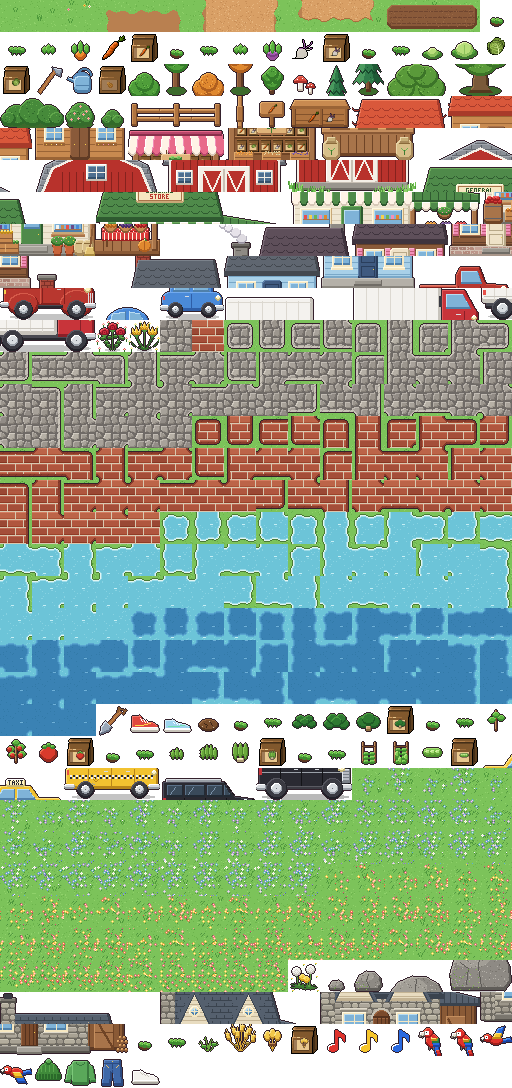
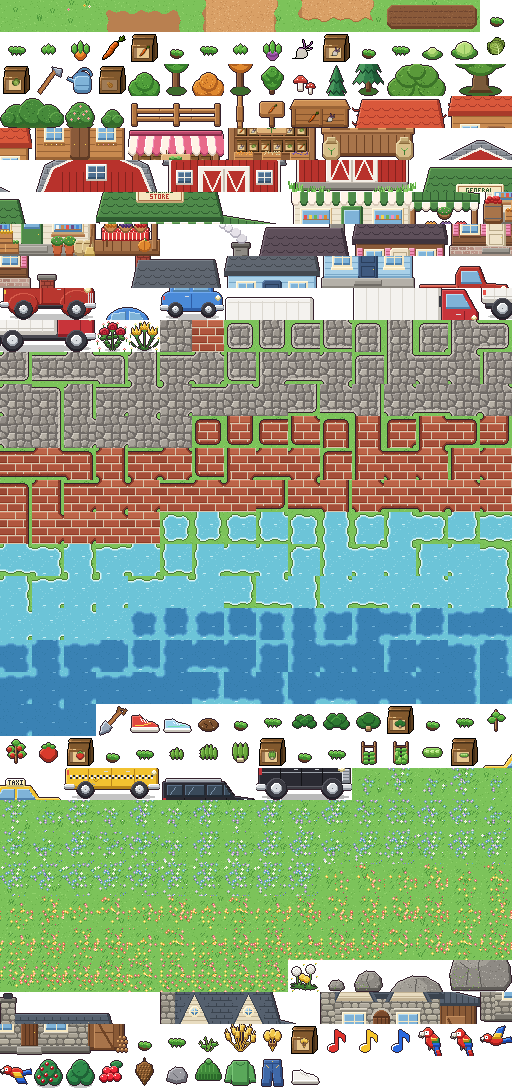
Foraging: berry bushes, pinecones and stones
Berry bushes grow along the Wilds' paths and clearings; Use on one picks 1-3
berries and leaves it bare until morning. Eating berries (Use while holding
them) gives +5 energy. Pinecones turn up by pine trees and stones in the open;
walk over them to pick them up. The Wilds get plenty each visit, the farm a
few each morning (at most 4 lying about). All three sell for 2g in the bin or
at Fredrick's. Art drawn by make_art.py.

Claude-Session: https://claude.ai/code/session_015p9zHqe761HPZ9r97hGy59

Changed region(s): [[0.0625, 0.9688, 0.625, 1.0]]

diff --git a/src/art-index.js b/src/art-index.js
@@ -1,2 +1,2 @@
 // Generated by tools/make_art.py: tile names -> index in assets/art/world.png (16 columns of 32x32).
-export const A = {"grass0": 0, "grass1": 1, "grass2": 2, "path0": 3, "path1": 4, "path2": 5, "path3": 6, "path4": 7, "path5": 8, "path6": 9, "path7": 10, "path8": 11, "soil0": 12, "soil1": 13, "soil2": 14, "carrot0": 15, "carrot1": 16, "carrot2": 17, "carrot3": 18, "carrot_item": 19, "carrot_packet": 20, "turnip0": 21, "turnip1": 22, "turnip2": 23, "turnip3": 24, "turnip_item": 25, "turnip_packet": 26, "cabbage0": 27, "cabbage1": 28, "cabbage2": 29, "cabbage3": 30, "cabbage_item": 31, "cabbage_packet": 32, "hoe": 33, "can": 34, "bag": 35, "tree_green_0": 36, "tree_green_1": 37, "tree_orange_0": 38, "tree_orange_1": 39, "tree": 40, "mushrooms": 41, "pine_0": 42, "pine_1": 43, "oak_0": 44, "oak_1": 45, "oak_2": 46, "oak_3": 47, "shrub_large_0": 48, "shrub_large_1": 49, "shrub_flower": 50, "shrub_small": 51, "fence0": 52, "fence1": 53, "fence2": 54, "fence3": 55, "sign": 56, "bin_0": 57, "bin_1": 58, "house_0": 59, "house_1": 60, "house_2": 61, "house_3": 62, "house_4": 63, "house_5": 64, "house_6": 65, "house_7": 66, "house_8": 67, "shop_0": 68, "shop_1": 69, "shop_2": 70, "shop_3": 71, "shop_4": 72, "shop_5": 73, "shop_6": 74, "shop_7": 75, "shop_8": 76, "barn_0": 77, "barn_1": 78, "barn_2": 79, "barn_3": 80, "barn_4": 81, "barn_5": 82, "barn_6": 83, "barn_7": 84, "barn_8": 85, "barn_9": 86, "barn_10": 87, "barn_11": 88, "barn_12": 89, "barn_13": 90, "barn_14": 91, "barn_15": 92, "store_0": 93, "store_1": 94, "store_2": 95, "store_3": 96, "store_4": 97, "store_5": 98, "store_6": 99, "store_7": 100, "store_8": 101, "store_9": 102, "store_10": 103, "store_11": 104, "store_12": 105, "store_13": 106, "store_14": 107, "store_15": 108, "store_16": 109, "store_17": 110, "store_18": 111, "store_19": 112, "store_20": 113, "store_21": 114, "store_22": 115, "store_23": 116, "house_brown_0": 117, "house_brown_1": 118, "house_brown_2": 119, "house_brown_3": 120, "house_brown_4": 121, "house_brown_5": 122, "house_brown_6": 123, "house_brown_7": 124, "house_brown_8": 125, "house_brown_9": 126, "house_brown_10": 127, "house_brown_11": 128, "house_blue_0": 129, "house_blue_1": 130, "house_blue_2": 131, "house_blue_3": 132, "house_blue_4": 133, "house_blue_5": 134, "house_blue_6": 135, "house_blue_7": 136, "house_blue_8": 137, "house_blue_9": 138, "house_blue_10": 139, "house_blue_11": 140, "pickup_0": 141, "pickup_1": 142, "pickup_2": 143, "pickup_3": 144, "pickup_4": 145, "pickup_5": 146, "car_small_0": 147, "car_small_1": 148, "car_small_2": 149, "car_small_3": 150, "box_truck_0": 151, "box_truck_1": 152, "box_truck_2": 153, "box_truck_3": 154, "box_truck_4": 155, "box_truck_5": 156, "box_truck_6": 157, "box_truck_7": 158, "box_truck_8": 159, "box_truck_9": 160, "box_truck_10": 161, "box_truck_11": 162, "roses": 163, "tulips": 164, "cobble0": 165, "brick0": 166, "cobbleb0": 167, "cobbleb1": 168, "cobbleb2": 169, "cobbleb3": 170, "cobbleb4": 171, "cobbleb5": 172, "cobbleb6": 173, "cobbleb7": 174, "cobbleb8": 175, "cobbleb9": 176, "cobbleb10": 177, "cobbleb11": 178, "cobbleb12": 179, "cobbleb13": 180, "cobbleb14": 181, "cobbleb15": 182, "cobbleb16": 183, "cobbleb17": 184, "cobbleb18": 185, "cobbleb19": 186, "cobbleb20": 187, "cobbleb21": 188, "cobbleb22": 189, "cobbleb23": 190, "cobbleb24": 191, "cobbleb25": 192, "cobbleb26": 193, "cobbleb27": 194, "cobbleb28": 195, "cobbleb29": 196, "cobbleb30": 197, "cobbleb31": 198, "cobbleb32": 199, "cobbleb33": 200, "cobbleb34": 201, "cobbleb35": 202, "cobbleb36": 203, "cobbleb37": 204, "cobbleb38": 205, "cobbleb39": 206, "cobbleb40": 207, "cobbleb41": 208, "cobbleb42": 209, "cobbleb43": 210, "cobbleb44": 211, "cobbleb45": 212, "cobbleb46": 213, "brickb0": 214, "brickb1": 215, "brickb2": 216, "brickb3": 217, "brickb4": 218, "brickb5": 219, "brickb6": 220, "brickb7": 221, "brickb8": 222, "brickb9": 223, "brickb10": 224, "brickb11": 225, "brickb12": 226, "brickb13": 227, "brickb14": 228, "brickb15": 229, "brickb16": 230, "brickb17": 231, "brickb18": 232, "brickb19": 233, "brickb20": 234, "brickb21": 235, "brickb22": 236, "brickb23": 237, "brickb24": 238, "brickb25": 239, "brickb26": 240, "brickb27": 241, "brickb28": 242, "brickb29": 243, "brickb30": 244, "brickb31": 245, "brickb32": 246, "brickb33": 247, "brickb34": 248, "brickb35": 249, "brickb36": 250, "brickb37": 251, "brickb38": 252, "brickb39": 253, "brickb40": 254, "brickb41": 255, "brickb42": 256, "brickb43": 257, "brickb44": 258, "brickb45": 259, "brickb46": 260, "shallow0": 261, "shallow1": 262, "shallow2": 263, "shallow3": 264, "shallow4": 265, "shallow5": 266, "shallow6": 267, "shallow7": 268, "shallow8": 269, "shallow9": 270, "shallow10": 271, "shallow11": 272, "shallow12": 273, "shallow13": 274, "shallow14": 275, "shallow15": 276, "shallow16": 277, "shallow17": 278, "shallow18": 279, "shallow19": 280, "shallow20": 281, "shallow21": 282, "shallow22": 283, "shallow23": 284, "shallow24": 285, "shallow25": 286, "shallow26": 287, "shallow27": 288, "shallow28": 289, "shallow29": 290, "shallow30": 291, "shallow31": 292, "shallow32": 293, "shallow33": 294, "shallow34": 295, "shallow35": 296, "shallow36": 297, "shallow37": 298, "shallow38": 299, "shallow39": 300, "shallow40": 301, "shallow41": 302, "shallow42": 303, "shallow43": 304, "shallow44": 305, "shallow45": 306, "shallow46": 307, "deep0": 308, "deep1": 309, "deep2": 310, "deep3": 311, "deep4": 312, "deep5": 313, "deep6": 314, "deep7": 315, "deep8": 316, "deep9": 317, "deep10": 318, "deep11": 319, "deep12": 320, "deep13": 321, "deep14": 322, "deep15": 323, "deep16": 324, "deep17": 325, "deep18": 326, "deep19": 327, "deep20": 328, "deep21": 329, "deep22": 330, "deep23": 331, "deep24": 332, "deep25": 333, "deep26": 334, "deep27": 335, "deep28": 336, "deep29": 337, "deep30": 338, "deep31": 339, "deep32": 340, "deep33": 341, "deep34": 342, "deep35": 343, "deep36": 344, "deep37": 345, "deep38": 346, "deep39": 347, "deep40": 348, "deep41": 349, "deep42": 350, "deep43": 351, "deep44": 352, "deep45": 353, "deep46": 354, "shovel": 355, "shoes": 356, "sneakers": 357, "dig_spot": 358, "spinach0": 359, "spinach1": 360, "spinach2": 361, "spinach3": 362, "spinach_item": 363, "spinach_packet": 364, "tomato0": 365, "tomato1": 366, "tomato2": 367, "tomato3": 368, "tomato_item": 369, "tomato_packet": 370, "arugula0": 371, "arugula1": 372, "arugula2": 373, "arugula3": 374, "arugula_item": 375, "arugula_packet": 376, "peas0": 377, "peas1": 378, "peas2": 379, "peas3": 380, "peas_item": 381, "peas_packet": 382, "taxi_0": 383, "taxi_1": 384, "taxi_2": 385, "taxi_3": 386, "taxi_4": 387, "taxi_5": 388, "suv_0": 389, "suv_1": 390, "suv_2": 391, "suv_3": 392, "suv_4": 393, "suv_5": 394, "wildcool0": 395, "wildcool1": 396, "wildcool2": 397, "wildcool3": 398, "wildcool4": 399, "wildcool5": 400, "wildcool6": 401, "wildcool7": 402, "wildcool8": 403, "wildcool9": 404, "wildcool10": 405, "wildcool11": 406, "wildcool12": 407, "wildcool13": 408, "wildcool14": 409, "wildcool15": 410, "wildcool16": 411, "wildcool17": 412, "wildcool18": 413, "wildcool19": 414, "wildcool20": 415, "wildcool21": 416, "wildcool22": 417, "wildcool23": 418, "wildcool24": 419, "wildcool25": 420, "wildcool26": 421, "wildcool27": 422, "wildcool28": 423, "wildcool29": 424, "wildcool30": 425, "wildcool31": 426, "wildcool32": 427, "wildcool33": 428, "wildcool34": 429, "wildcool35": 430, "wildcool36": 431, "wildcool37": 432, "wildcool38": 433, "wildcool39": 434, "wildcool40": 435, "wildcool41": 436, "wildcool42": 437, "wildcool43": 438, "wildcool44": 439, "wildcool45": 440, "wildcool46": 441, "wildwarm0": 442, "wildwarm1": 443, "wildwarm2": 444, "wildwarm3": 445, "wildwarm4": 446, "wildwarm5": 447, "wildwarm6": 448, "wildwarm7": 449, "wildwarm8": 450, "wildwarm9": 451, "wildwarm10": 452, "wildwarm11": 453, "wildwarm12": 454, "wildwarm13": 455, "wildwarm14": 456, "wildwarm15": 457, "wildwarm16": 458, "wildwarm17": 459, "wildwarm18": 460, "wildwarm19": 461, "wildwarm20": 462, "wildwarm21": 463, "wildwarm22": 464, "wildwarm23": 465, "wildwarm24": 466, "wildwarm25": 467, "wildwarm26": 468, "wildwarm27": 469, "wildwarm28": 470, "wildwarm29": 471, "wildwarm30": 472, "wildwarm31": 473, "wildwarm32": 474, "wildwarm33": 475, "wildwarm34": 476, "wildwarm35": 477, "wildwarm36": 478, "wildwarm37": 479, "wildwarm38": 480, "wildwarm39": 481, "wildwarm40": 482, "wildwarm41": 483, "wildwarm42": 484, "wildwarm43": 485, "wildwarm44": 486, "wildwarm45": 487, "wildwarm46": 488, "dandelions": 489, "rock_small": 490, "rock_medium": 491, "rock_large_0": 492, "rock_large_1": 493, "rock_large_2": 494, "rock_large_3": 495, "stone_house_0": 496, "stone_house_1": 497, "stone_house_2": 498, "stone_house_3": 499, "stone_house_4": 500, "stone_house_5": 501, "stone_house_6": 502, "stone_house_7": 503, "stone_house_8": 504, "stone_house_9": 505, "stone_house_10": 506, "stone_house_11": 507, "stone_house_12": 508, "stone_house_13": 509, "stone_house_14": 510, "stone_house_15": 511, "stone_house_16": 512, "stone_house_17": 513, "stone_house_18": 514, "stone_house_19": 515, "wheat0": 516, "wheat1": 517, "wheat2": 518, "wheat3": 519, "wheat_item": 520, "wheat_packet": 521, "note_red": 522, "note_yellow": 523, "note_blue": 524, "bird0": 525, "bird1": 526, "bird_fly0": 527, "bird_fly1": 528, "beanie": 529, "longsleeve": 530, "jeans": 531, "white_sneakers": 532};
+export const A = {"grass0": 0, "grass1": 1, "grass2": 2, "path0": 3, "path1": 4, "path2": 5, "path3": 6, "path4": 7, "path5": 8, "path6": 9, "path7": 10, "path8": 11, "soil0": 12, "soil1": 13, "soil2": 14, "carrot0": 15, "carrot1": 16, "carrot2": 17, "carrot3": 18, "carrot_item": 19, "carrot_packet": 20, "turnip0": 21, "turnip1": 22, "turnip2": 23, "turnip3": 24, "turnip_item": 25, "turnip_packet": 26, "cabbage0": 27, "cabbage1": 28, "cabbage2": 29, "cabbage3": 30, "cabbage_item": 31, "cabbage_packet": 32, "hoe": 33, "can": 34, "bag": 35, "tree_green_0": 36, "tree_green_1": 37, "tree_orange_0": 38, "tree_orange_1": 39, "tree": 40, "mushrooms": 41, "pine_0": 42, "pine_1": 43, "oak_0": 44, "oak_1": 45, "oak_2": 46, "oak_3": 47, "shrub_large_0": 48, "shrub_large_1": 49, "shrub_flower": 50, "shrub_small": 51, "fence0": 52, "fence1": 53, "fence2": 54, "fence3": 55, "sign": 56, "bin_0": 57, "bin_1": 58, "house_0": 59, "house_1": 60, "house_2": 61, "house_3": 62, "house_4": 63, "house_5": 64, "house_6": 65, "house_7": 66, "house_8": 67, "shop_0": 68, "shop_1": 69, "shop_2": 70, "shop_3": 71, "shop_4": 72, "shop_5": 73, "shop_6": 74, "shop_7": 75, "shop_8": 76, "barn_0": 77, "barn_1": 78, "barn_2": 79, "barn_3": 80, "barn_4": 81, "barn_5": 82, "barn_6": 83, "barn_7": 84, "barn_8": 85, "barn_9": 86, "barn_10": 87, "barn_11": 88, "barn_12": 89, "barn_13": 90, "barn_14": 91, "barn_15": 92, "store_0": 93, "store_1": 94, "store_2": 95, "store_3": 96, "store_4": 97, "store_5": 98, "store_6": 99, "store_7": 100, "store_8": 101, "store_9": 102, "store_10": 103, "store_11": 104, "store_12": 105, "store_13": 106, "store_14": 107, "store_15": 108, "store_16": 109, "store_17": 110, "store_18": 111, "store_19": 112, "store_20": 113, "store_21": 114, "store_22": 115, "store_23": 116, "house_brown_0": 117, "house_brown_1": 118, "house_brown_2": 119, "house_brown_3": 120, "house_brown_4": 121, "house_brown_5": 122, "house_brown_6": 123, "house_brown_7": 124, "house_brown_8": 125, "house_brown_9": 126, "house_brown_10": 127, "house_brown_11": 128, "house_blue_0": 129, "house_blue_1": 130, "house_blue_2": 131, "house_blue_3": 132, "house_blue_4": 133, "house_blue_5": 134, "house_blue_6": 135, "house_blue_7": 136, "house_blue_8": 137, "house_blue_9": 138, "house_blue_10": 139, "house_blue_11": 140, "pickup_0": 141, "pickup_1": 142, "pickup_2": 143, "pickup_3": 144, "pickup_4": 145, "pickup_5": 146, "car_small_0": 147, "car_small_1": 148, "car_small_2": 149, "car_small_3": 150, "box_truck_0": 151, "box_truck_1": 152, "box_truck_2": 153, "box_truck_3": 154, "box_truck_4": 155, "box_truck_5": 156, "box_truck_6": 157, "box_truck_7": 158, "box_truck_8": 159, "box_truck_9": 160, "box_truck_10": 161, "box_truck_11": 162, "roses": 163, "tulips": 164, "cobble0": 165, "brick0": 166, "cobbleb0": 167, "cobbleb1": 168, "cobbleb2": 169, "cobbleb3": 170, "cobbleb4": 171, "cobbleb5": 172, "cobbleb6": 173, "cobbleb7": 174, "cobbleb8": 175, "cobbleb9": 176, "cobbleb10": 177, "cobbleb11": 178, "cobbleb12": 179, "cobbleb13": 180, "cobbleb14": 181, "cobbleb15": 182, "cobbleb16": 183, "cobbleb17": 184, "cobbleb18": 185, "cobbleb19": 186, "cobbleb20": 187, "cobbleb21": 188, "cobbleb22": 189, "cobbleb23": 190, "cobbleb24": 191, "cobbleb25": 192, "cobbleb26": 193, "cobbleb27": 194, "cobbleb28": 195, "cobbleb29": 196, "cobbleb30": 197, "cobbleb31": 198, "cobbleb32": 199, "cobbleb33": 200, "cobbleb34": 201, "cobbleb35": 202, "cobbleb36": 203, "cobbleb37": 204, "cobbleb38": 205, "cobbleb39": 206, "cobbleb40": 207, "cobbleb41": 208, "cobbleb42": 209, "cobbleb43": 210, "cobbleb44": 211, "cobbleb45": 212, "cobbleb46": 213, "brickb0": 214, "brickb1": 215, "brickb2": 216, "brickb3": 217, "brickb4": 218, "brickb5": 219, "brickb6": 220, "brickb7": 221, "brickb8": 222, "brickb9": 223, "brickb10": 224, "brickb11": 225, "brickb12": 226, "brickb13": 227, "brickb14": 228, "brickb15": 229, "brickb16": 230, "brickb17": 231, "brickb18": 232, "brickb19": 233, "brickb20": 234, "brickb21": 235, "brickb22": 236, "brickb23": 237, "brickb24": 238, "brickb25": 239, "brickb26": 240, "brickb27": 241, "brickb28": 242, "brickb29": 243, "brickb30": 244, "brickb31": 245, "brickb32": 246, "brickb33": 247, "brickb34": 248, "brickb35": 249, "brickb36": 250, "brickb37": 251, "brickb38": 252, "brickb39": 253, "brickb40": 254, "brickb41": 255, "brickb42": 256, "brickb43": 257, "brickb44": 258, "brickb45": 259, "brickb46": 260, "shallow0": 261, "shallow1": 262, "shallow2": 263, "shallow3": 264, "shallow4": 265, "shallow5": 266, "shallow6": 267, "shallow7": 268, "shallow8": 269, "shallow9": 270, "shallow10": 271, "shallow11": 272, "shallow12": 273, "shallow13": 274, "shallow14": 275, "shallow15": 276, "shallow16": 277, "shallow17": 278, "shallow18": 279, "shallow19": 280, "shallow20": 281, "shallow21": 282, "shallow22": 283, "shallow23": 284, "shallow24": 285, "shallow25": 286, "shallow26": 287, "shallow27": 288, "shallow28": 289, "shallow29": 290, "shallow30": 291, "shallow31": 292, "shallow32": 293, "shallow33": 294, "shallow34": 295, "shallow35": 296, "shallow36": 297, "shallow37": 298, "shallow38": 299, "shallow39": 300, "shallow40": 301, "shallow41": 302, "shallow42": 303, "shallow43": 304, "shallow44": 305, "shallow45": 306, "shallow46": 307, "deep0": 308, "deep1": 309, "deep2": 310, "deep3": 311, "deep4": 312, "deep5": 313, "deep6": 314, "deep7": 315, "deep8": 316, "deep9": 317, "deep10": 318, "deep11": 319, "deep12": 320, "deep13": 321, "deep14": 322, "deep15": 323, "deep16": 324, "deep17": 325, "deep18": 326, "deep19": 327, "deep20": 328, "deep21": 329, "deep22": 330, "deep23": 331, "deep24": 332, "deep25": 333, "deep26": 334, "deep27": 335, "deep28": 336, "deep29": 337, "deep30": 338, "deep31": 339, "deep32": 340, "deep33": 341, "deep34": 342, "deep35": 343, "deep36": 344, "deep37": 345, "deep38": 346, "deep39": 347, "deep40": 348, "deep41": 349, "deep42": 350, "deep43": 351, "deep44": 352, "deep45": 353, "deep46": 354, "shovel": 355, "shoes": 356, "sneakers": 357, "dig_spot": 358, "spinach0": 359, "spinach1": 360, "spinach2": 361, "spinach3": 362, "spinach_item": 363, "spinach_packet": 364, "tomato0": 365, "tomato1": 366, "tomato2": 367, "tomato3": 368, "tomato_item": 369, "tomato_packet": 370, "arugula0": 371, "arugula1": 372, "arugula2": 373, "arugula3": 374, "arugula_item": 375, "arugula_packet": 376, "peas0": 377, "peas1": 378, "peas2": 379, "peas3": 380, "peas_item": 381, "peas_packet": 382, "taxi_0": 383, "taxi_1": 384, "taxi_2": 385, "taxi_3": 386, "taxi_4": 387, "taxi_5": 388, "suv_0": 389, "suv_1": 390, "suv_2": 391, "suv_3": 392, "suv_4": 393, "suv_5": 394, "wildcool0": 395, "wildcool1": 396, "wildcool2": 397, "wildcool3": 398, "wildcool4": 399, "wildcool5": 400, "wildcool6": 401, "wildcool7": 402, "wildcool8": 403, "wildcool9": 404, "wildcool10": 405, "wildcool11": 406, "wildcool12": 407, "wildcool13": 408, "wildcool14": 409, "wildcool15": 410, "wildcool16": 411, "wildcool17": 412, "wildcool18": 413, "wildcool19": 414, "wildcool20": 415, "wildcool21": 416, "wildcool22": 417, "wildcool23": 418, "wildcool24": 419, "wildcool25": 420, "wildcool26": 421, "wildcool27": 422, "wildcool28": 423, "wildcool29": 424, "wildcool30": 425, "wildcool31": 426, "wildcool32": 427, "wildcool33": 428, "wildcool34": 429, "wildcool35": 430, "wildcool36": 431, "wildcool37": 432, "wildcool38": 433, "wildcool39": 434, "wildcool40": 435, "wildcool41": 436, "wildcool42": 437, "wildcool43": 438, "wildcool44": 439, "wildcool45": 440, "wildcool46": 441, "wildwarm0": 442, "wildwarm1": 443, "wildwarm2": 444, "wildwarm3": 445, "wildwarm4": 446, "wildwarm5": 447, "wildwarm6": 448, "wildwarm7": 449, "wildwarm8": 450, "wildwarm9": 451, "wildwarm10": 452, "wildwarm11": 453, "wildwarm12": 454, "wildwarm13": 455, "wildwarm14": 456, "wildwarm15": 457, "wildwarm16": 458, "wildwarm17": 459, "wildwarm18": 460, "wildwarm19": 461, "wildwarm20": 462, "wildwarm21": 463, "wildwarm22": 464, "wildwarm23": 465, "wildwarm24": 466, "wildwarm25": 467, "wildwarm26": 468, "wildwarm27": 469, "wildwarm28": 470, "wildwarm29": 471, "wildwarm30": 472, "wildwarm31": 473, "wildwarm32": 474, "wildwarm33": 475, "wildwarm34": 476, "wildwarm35": 477, "wildwarm36": 478, "wildwarm37": 479, "wildwarm38": 480, "wildwarm39": 481, "wildwarm40": 482, "wildwarm41": 483, "wildwarm42": 484, "wildwarm43": 485, "wildwarm44": 486, "wildwarm45": 487, "wildwarm46": 488, "dandelions": 489, "rock_small": 490, "rock_medium": 491, "rock_large_0": 492, "rock_large_1": 493, "rock_large_2": 494, "rock_large_3": 495, "stone_house_0": 496, "stone_house_1": 497, "stone_house_2": 498, "stone_house_3": 499, "stone_house_4": 500, "stone_house_5": 501, "stone_house_6": 502, "stone_house_7": 503, "stone_house_8": 504, "stone_house_9": 505, "stone_house_10": 506, "stone_house_11": 507, "stone_house_12": 508, "stone_house_13": 509, "stone_house_14": 510, "stone_house_15": 511, "stone_house_16": 512, "stone_house_17": 513, "stone_house_18": 514, "stone_house_19": 515, "wheat0": 516, "wheat1": 517, "wheat2": 518, "wheat3": 519, "wheat_item": 520, "wheat_packet": 521, "note_red": 522, "note_yellow": 523, "note_blue": 524, "bird0": 525, "bird1": 526, "bird_fly0": 527, "bird_fly1": 528, "berry_bush": 529, "berry_bush_bare": 530, "berries": 531, "pinecone": 532, "stone": 533, "beanie": 534, "longsleeve": 535, "jeans": 536, "white_sneakers": 537};

diff --git a/src/scenes.js b/src/scenes.js
@@ -12,6 +12,7 @@ import { Villager, spawnVillagers, randomSpot, fits, feet, overlaps, planRoute, 
 import { SCHEDULES, activity, weekday } from './schedule.js';
 import { GOODS, STORE_HOURS, WEAR_SLOTS, storeOpen, goodsOf } from './store.js';
 import { Events, MINSTREL_LINES } from './events.js';
+import { FORAGE, SPREAD, scatterForage, bushAt, pickBush, regrowBushes } from './forage.js';
 import { PLANTS, DIG_SPOTS, DIG_ENERGY, scatterDigs, digFind } from './dig.js';
 import { A } from './art-index.js';
 import { TRAVELLER_CHANCE, STRANGER_CHANCE, HELLOS, LINES, travellerLook, paintTraveller } from './traveller.js';
@@ -144,6 +145,8 @@ const CONTROLS = [
   ['Bag', 'I, or tap Bag; tap 2 slots to swap'],
   ['Sleep', 'Use on your front door'],
   ['Villagers', 'Use to talk; hold a crop to gift it'],
+  ['Forage', 'Walk over pinecones and stones; Use on berry bushes'],
+  ['Eat', 'Use while holding berries'],
   ['Pause', 'Esc / P, or tap II'],
   ['Help', '? key, or tap ?'],
   ['Map', 'M, or tap the globe'],
@@ -188,7 +191,7 @@ export class World {
     this.gear = {}; // things bought at the general store: id -> true
     this.worn = {}; // equipment slot -> id from GOODS
     this.moved = { gone: [], put: [] }; // farm plants moved with the shovel: tiles dug up, and [tile, plant] planted
-    this.inv.canBin = id => !!CROPS[id]; // only crops go in the shipping bin
+    this.inv.canBin = id => !!(CROPS[id] || FORAGE[id]); // only crops and forage go in the shipping bin
     this.scatterDigs();
     this.shop = false;
     this.open = false; this.pick = -1;
@@ -290,6 +293,7 @@ export class World {
       if (!this.blocked(this.x, ny)) this.y = ny;
     }
     this.player.update(dt, moving);
+    this.gather();
     const me = feet(this.x, this.y);
     for (const m of Object.values(this.maps)) for (const v of m.villagers) v.update(dt, m === this.map ? (x, y) => overlaps(feet(x, y), me) : () => false);
     this.hop();
@@ -318,6 +322,7 @@ export class World {
   freshen(id) {
     const m = this.maps[id] = { ...LOCATIONS[id].build(Date.now(), this.clock.seasonName), name: LOCATIONS[id].name, villagers: [] };
     m.digs = scatterDigs(m, DIG_SPOTS[id] ?? 0);
+    if (SPREAD[id]) scatterForage(m, SPREAD[id]);
     const spot = id === 'wilds' && Math.random() < TRAVELLER_CHANCE && randomSpot({ ...m, solid: m.solid.map((s, i) => s || m.ground[i].startsWith('shallow')) }); // sometimes someone's out here
     if (spot) {
       const look = travellerLook(), v = new Villager({ sheet: 'traveller', ...spot });
@@ -329,6 +334,26 @@ export class World {
     if (hood) m.villagers.push(new Villager({ sheet: 'wanderer', x: hood.x, y: hood.y, size: 0 }));
   }
   get villagers() { return this.map.villagers; }
+  // Pick up forage (pinecones, stones) you walk over.
+  gather() {
+    const k = `${Math.floor((this.x + 8) / TILE)},${Math.floor((this.y + 13) / TILE)}`, id = this.map.forage?.get(k);
+    if (!id) return;
+    if (!this.inv.add(id)) { if (this.toast !== 'Your bag is full.' || this.toastT <= 0) this.say('Your bag is full.'); return; }
+    this.map.forage.delete(k); sfx('harvest'); this.say(`Picked up a ${FORAGE[id].name.toLowerCase()}.`);
+  }
+  // Pick a berry bush you're facing (it's bare until morning).
+  pickBerries(o) {
+    const n = pickBush(o);
+    if (!n) return this.say("No berries left. They'll grow back by morning.");
+    if (!this.inv.add('berries', n)) { regrowBushes({ objects: [o] }); return this.say('Your bag is full.'); }
+    sfx('harvest'); this.say(`Picked ${n} ${n > 1 ? 'berries' : 'berry'}!`);
+  }
+  eat(id) {
+    const k = this.clock;
+    if (k.energy >= k.max) return this.say("You're already full of energy.");
+    this.inv.take(id, 1); k.energy = Math.min(k.max, k.energy + FORAGE[id].energy); sfx('harvest');
+    this.say(`Ate some ${FORAGE[id].name.toLowerCase()}. +${FORAGE[id].energy} energy!`);
+  }
   // The minstrel's song while you're near him; the region's music otherwise.
   song(near) { if (near !== songPlaying('minstrel')) playMusic(near ? 'minstrel' : undefined); }
   found(msg) { sfx('coin'); this.say(msg); }
@@ -392,6 +417,8 @@ export class World {
     }
     if (v) return v.role !== 'shop' ? this.meet(v) : this.closed(v.walker.sheet) ? this.say(this.closed(v.walker.sheet)) : this.openShop(v);
     if (key === this.map.door) { sfx('sleep'); return this.clock.sleep(); }
+    const bush = bushAt(this.map, key);
+    if (bush) return this.pickBerries(bush);
     const counter = Object.keys(KEEPERS).find(k => key === this.map[KEEPERS[k].building]);
     if (counter) { // the keeper sells, if they're here; otherwise the door opens the shop
       if (this.closed(counter)) return this.say(this.closed(counter));
@@ -401,6 +428,7 @@ export class World {
     if (this.map.bin.includes(key)) { this.open = this.binOpen = true; this.pick = -1; return; }
     if (held === 'shovel') return this.dig(key);
     if (PLANTS[held]) return this.replant(key, held);
+    if (FORAGE[held]?.energy) return this.eat(held);
     if (!this.onFarm || !f.has(key)) return CROPS[held] && this.say(`That's ${aCrop(held)}.`);
     const p = f.get(key), tired = () => { sfx('nope'); this.say('Too tired. Sleep at your front door.'); };
     if (f.isRipe(p)) {
@@ -505,7 +533,7 @@ export class World {
   closeRect() { const [, by] = this.slotRect(HOTBAR); return [this.g.w / 2 - 18, by + 45, 36, 11]; }
 
   // Shipping bin: 5 slots, filled from the bag; everything in it is sold overnight.
-  binValue(stacks) { return stacks.reduce((sum, s) => sum + (CROPS[s.id] ? this.sellPrice(s.id) : 0) * s.n, 0); }
+  binValue(stacks) { return stacks.reduce((sum, s) => sum + (CROPS[s.id] ? this.sellPrice(s.id) : FORAGE[s.id]?.price ?? 0) * s.n, 0); }
   // Perks from villagers' support change prices.
   sellPrice(crop) { return Math.round(CROPS[crop].price * (this.support.has('bargain') ? 1.1 : 1)); }
   seedCost(c) { return Math.ceil(c.seed * (this.support.has('discount') ? 0.9 : 1)); }
@@ -615,7 +643,12 @@ export class World {
   }
 
   // The shovel: loose earth turns up finds; small plants come up so you can replant them on your farm.
-  scatterDigs() { for (const [id, n] of Object.entries(DIG_SPOTS)) if (this.maps[id]) this.maps[id].digs = scatterDigs(this.maps[id], n); }
+  // Each morning (and on a new game): fresh loose earth, berry bushes grow back, a few pinecones and stones on the farm.
+  scatterDigs() {
+    for (const [id, n] of Object.entries(DIG_SPOTS)) if (this.maps[id]) this.maps[id].digs = scatterDigs(this.maps[id], n);
+    for (const m of Object.values(this.maps)) regrowBushes(m);
+    scatterForage(this.maps.farm, SPREAD.farm);
+  }
   plantAt(key, map = this.map) {
     return map.objects.find(o => `${o.x / TILE},${o.y / TILE}` === key && o.tiles.length === 1 && o.tiles[0].length === 1 && PLANTS[o.tiles[0][0]]);
   }
@@ -698,8 +731,8 @@ export class World {
       sfx('coin'); this.gold -= this.seedCost(c); this.seeds[s]++; this.say(`Bought ${c.name} seeds. You have ${this.seeds[s]}.`);
     });
     if (r.sell && (inp.hit('KeyS') || inp.tapIn(...r.sell))) {
-      const earned = SEEDS.reduce((sum, s) => sum + this.inv.take(s) * this.sellPrice(s), 0);
-      if (earned) sfx('coin'); this.gold += earned; this.say(earned ? `Sold your crops for ${earned}g.` : 'No crops to sell.');
+      const earned = SEEDS.reduce((sum, s) => sum + this.inv.take(s) * this.sellPrice(s), 0) + Object.keys(FORAGE).reduce((sum, id) => sum + this.inv.take(id) * FORAGE[id].price, 0);
+      if (earned) sfx('coin'); this.gold += earned; this.say(earned ? `Sold your harvest for ${earned}g.` : 'Nothing to sell.');
     }
     if (inp.hit('Escape', 'KeyE', 'Space') || inp.tapIn(...r.close)) this.shop = false;
   }
@@ -718,7 +751,7 @@ export class World {
       g.text(`own ${this.seeds[s]}`, x + 82, y + 5, { size: 5, color: '#dcebc6' });
       g.text(`${this.seedCost(c)}g`, x + w - 3, y + 5, { size: 6, align: 'right', color: '#fff3a8' });
     });
-    if (r.sell) { g.panel(...r.sell, '#e86a9a'); g.text('Sell crops (S)', r.sell[0] + 32, r.sell[1] + 4, { size: 5, align: 'center' }); }
+    if (r.sell) { g.panel(...r.sell, '#e86a9a'); g.text('Sell harvest (S)', r.sell[0] + 32, r.sell[1] + 4, { size: 5, align: 'center' }); }
     g.panel(...r.close, '#5d7150'); g.text('Close (Esc)', r.close[0] + 32, r.close[1] + 4, { size: 5, align: 'center' });
   }
 
@@ -771,7 +804,7 @@ export class World {
     g.panel(x, y, 18, 18, i === this.pick ? '#e86a9add' : undefined);
     if (i === this.inv.sel) { g.ctx.strokeStyle = '#fff3a8'; g.ctx.lineWidth = 1; g.ctx.strokeRect(x + 0.5, y + 0.5, 17, 17); }
     if (!s) return;
-    const icon = s.id === 'seeds' ? CROPS[SEEDS[this.seed]].packet : TOOLS[s.id]?.icon ?? PLANTS[s.id]?.icon ?? CROPS[s.id].item;
+    const icon = s.id === 'seeds' ? CROPS[SEEDS[this.seed]].packet : TOOLS[s.id]?.icon ?? PLANTS[s.id]?.icon ?? FORAGE[s.id]?.icon ?? CROPS[s.id].item;
     g.tile(icon, x + 1, y + 1);
     const n = s.id === 'seeds' ? this.seeds[SEEDS[this.seed]] : s.n;
     if (n !== undefined) g.text(String(n), x + 17, y + 11, { size: 5, align: 'right' });
@@ -790,6 +823,8 @@ export class World {
         if (p?.wet) { c.fillStyle = '#3f263155'; c.fillRect(x * TILE - cx, y * TILE - cy + 3, 16, 11); }
         if (p) g.tile(this.field.sprite(p), x * TILE - cx, y * TILE - cy);
         if (this.map.digs?.has(`${x},${y}`)) g.tile('dig_spot', x * TILE - cx, y * TILE - cy);
+        const fo = this.map.forage?.get(`${x},${y}`);
+        if (fo) g.tile(FORAGE[fo].icon, x * TILE - cx + 3, y * TILE - cy + 4, 10); // forage lies small on the ground
       }
     this.events.drawGround(this, cx, cy);
     // Highlight the tile the player is facing.
@@ -881,7 +916,7 @@ export class World {
     // Hotbar, top left, with the held item's name under it.
     for (let i = 0; i < HOTBAR; i++) this.drawSlot(i);
     const h = this.inv.held;
-    if (h && !this.open) g.text(h.id === 'seeds' ? `${CROPS[SEEDS[this.seed]].name} Seeds` : TOOLS[h.id]?.name ?? PLANTS[h.id]?.name ?? CROPS[h.id].name, 5, 24, { size: 5 });
+    if (h && !this.open) g.text(h.id === 'seeds' ? `${CROPS[SEEDS[this.seed]].name} Seeds` : TOOLS[h.id]?.name ?? PLANTS[h.id]?.name ?? FORAGE[h.id]?.name ?? CROPS[h.id].name, 5, 24, { size: 5 });
     // Bag grid.
     if (this.open) {
       const [bx, by] = this.slotRect(HOTBAR);

diff --git a/src/forage.js b/src/forage.js
@@ -1,0 +1,45 @@
+// Forage: things to pick up, mostly in the Wilds, with a few turning up on the farm each morning.
+//   Berries come from berry bushes (press Use facing one; it grows back by morning). Eat them for a little energy.
+//   Pinecones lie around pine trees, and stones in the open; walk over them to pick them up. (Both are for crafting, later.)
+export const FORAGE = {
+  berries: { name: 'Berries', icon: 'berries', price: 2, energy: 5 }, // energy: eaten with Use while held
+  pinecone: { name: 'Pinecone', icon: 'pinecone', price: 2 },
+  stone: { name: 'Stone', icon: 'stone', price: 2 },
+};
+export const BERRIES_PER_BUSH = [1, 3]; // picked at once (min, max)
+// How much turns up: stones in the open, and the chance of a pinecone by each pine.
+export const SPREAD = { wilds: { stones: [3, 6], pine: 0.4 }, farm: { stones: [0, 2], pine: 0.05, cap: 4 } };
+
+const key = (x, y) => `${x},${y}`;
+// Open grass on `map`: walkable, nothing on it, not a door/bin/plot/dig spot, and no forage already.
+function open(map, x, y) {
+  if (x < 1 || y < 1 || x >= map.W - 1 || y >= map.H - 1) return false;
+  const k = key(x, y), i = y * map.W + x;
+  return map.ground[i].startsWith('grass') && !map.solid[i] && !map.forage?.has(k) && !map.digs?.has(k) && !map.plots.includes(k)
+    && ![map.door, map.shop, map.store, ...map.bin].includes(k) && !map.objects.some(o => o.tiles.some((row, j) => row.some((_, c) => o.x / 16 + c === x && o.y / 16 + j === y)));
+}
+
+// Scatter stones, then pinecones, on a map (map.forage: tile key -> item id). Adds to what's there, up to `cap` items.
+export function scatterForage(map, { stones: [lo, hi], pine, cap = Infinity }, rand = Math.random) {
+  map.forage ??= new Map();
+  const room = () => map.forage.size < cap;
+  for (let n = lo + Math.floor(rand() * (hi - lo + 1)), tries = 0; n > 0 && tries < 300 && room(); tries++) {
+    const x = Math.floor(rand() * map.W), y = Math.floor(rand() * map.H);
+    if (open(map, x, y)) { map.forage.set(key(x, y), 'stone'); n--; }
+  }
+  for (const o of map.objects) {
+    if (o.tiles[0][0] !== 'pine_0' || rand() >= pine || !room()) continue;
+    const bx = o.x / 16, by = o.y / 16 + 1, spots = [[-1, 0], [1, 0], [0, 1], [-1, 1], [1, 1]].map(([a, b]) => [bx + a, by + b]).filter(([x, y]) => open(map, x, y));
+    if (spots.length) { const [x, y] = spots[Math.floor(rand() * spots.length)]; map.forage.set(key(x, y), 'pinecone'); }
+  }
+  return map.forage;
+}
+
+// Berry bushes: the object at a tile, if it's a bush; picking one leaves it bare, and every bush regrows overnight.
+export const bushAt = (map, k) => map.objects.find(o => o.tiles[0][0].startsWith('berry_bush') && key(o.x / 16, o.y / 16) === k);
+export function pickBush(o, rand = Math.random) {
+  if (o.tiles[0][0] !== 'berry_bush') return 0;
+  o.tiles = [['berry_bush_bare']];
+  return BERRIES_PER_BUSH[0] + Math.floor(rand() * (BERRIES_PER_BUSH[1] - BERRIES_PER_BUSH[0] + 1));
+}
+export function regrowBushes(map) { for (const o of map.objects) if (o.tiles[0][0] === 'berry_bush_bare') o.tiles = [['berry_bush']]; }

diff --git a/test/forage.test.js b/test/forage.test.js
@@ -1,0 +1,35 @@
+import test from 'node:test';
+import assert from 'node:assert/strict';
+import { FORAGE, SPREAD, scatterForage, bushAt, pickBush, regrowBushes } from '../src/forage.js';
+import { LOCATIONS } from '../src/locations.js';
+import { findPath } from '../src/villagers.js';
+import { exitRows } from '../src/map-data.js';
+
+test('forage sells for 2 gold each, and berries can be eaten', () => {
+  for (const f of Object.values(FORAGE)) assert.equal(f.price, 2);
+  assert.ok(FORAGE.berries.energy > 0);
+});
+test('the wilds get stones, pinecones by pines, and reachable berry bushes', () => {
+  for (let seed = 1; seed <= 20; seed++) {
+    const m = LOCATIONS.wilds.build(seed, 'Winter'), f = scatterForage(m, SPREAD.wilds);
+    const ids = [...f.values()];
+    assert.ok(ids.filter(i => i === 'stone').length >= SPREAD.wilds.stones[0], `seed ${seed} stones`);
+    const reach = new Set(), start = [0, exitRows(m, 'left')[0]];
+    findPath(m, start, (x, y) => { reach.add(`${x},${y}`); return false; });
+    for (const k of f.keys()) assert.ok(reach.has(k), `seed ${seed}: ${k} out of reach`);
+    const bushes = m.objects.filter(o => o.tiles[0][0] === 'berry_bush');
+    assert.ok(bushes.length >= 1, `seed ${seed} bushes`);
+    for (const o of bushes) { const x = o.x / 16, y = o.y / 16; assert.ok([[1, 0], [-1, 0], [0, 1], [0, -1]].some(([a, b]) => reach.has(`${x + a},${y + b}`)), `seed ${seed} bush ${x},${y}`); }
+  }
+});
+test('a picked bush is bare until it regrows', () => {
+  const m = LOCATIONS.wilds.build(3), o = m.objects.find(o => o.tiles[0][0] === 'berry_bush'), k = `${o.x / 16},${o.y / 16}`;
+  assert.equal(bushAt(m, k), o);
+  const n = pickBush(o, () => 0.99); assert.equal(n, 3); assert.equal(pickBush(o), 0);
+  regrowBushes(m); assert.equal(o.tiles[0][0], 'berry_bush');
+});
+test('the farm only gets a few at a time', () => {
+  const m = LOCATIONS.farm.build();
+  for (let i = 0; i < 10; i++) scatterForage(m, SPREAD.farm);
+  assert.ok(m.forage.size <= SPREAD.farm.cap);
+});

diff --git a/src/wilds.js b/src/wilds.js
@@ -1,4 +1,4 @@
-// The Wilds: woods past the east end of town, made fresh each visit from a seed. Woods, clearings, ponds and rocks.
+// The Wilds: woods past the east end of town, made fresh each visit from a seed. Woods, clearings, ponds, rocks and berry bushes.
 // wildsData(seed, season) gives editor data (see map-data.js), so the editor can open one and mapFromData can build it.
 import { blankMap, retile, solidOf, PREFABS } from './map-data.js';
 import { findPath } from './villagers.js';
@@ -80,6 +80,11 @@ export function wildsData(seed = Date.now(), season = 'Spring') {
     else if (r < p + 0.035) put(LITTLE[Math.floor(rand() * LITTLE.length)])(x, y + 1);
     else if (r < p + 0.04 && !d.ground[idx(x, Math.max(0, y))].startsWith('wild')) put('rock_large')(x, y);
   }
+  // Berry bushes along the edges of the path and clearings, so you can always reach them.
+  const edges = [];
+  for (let y = 1; y < H - 1; y++) for (let x = 1; x < W - 1; x++)
+    if (!keep[idx(x, y)] && !used[idx(x, y)] && !water(x, y) && [[1, 0], [-1, 0], [0, 1], [0, -1]].some(([a, b]) => keep[idx(x + a, y + b)] && !water(x + a, y + b))) edges.push([x, y]);
+  for (let n = 3 + Math.floor(rand() * 4); n > 0 && edges.length; n--) put('berry_bush')(...edges.splice(Math.floor(rand() * edges.length), 1)[0]);
 
   // Open up anything walled off, so every bit of open ground can be reached from the path.
   d.spawn = { x: 0, y: ENTRY[0] };

diff --git a/src/map-data.js b/src/map-data.js
@@ -44,7 +44,7 @@ const SIZES = {
   taxi: { w: 3, h: 2, solid: 1 }, suv: { w: 3, h: 2, solid: 1 }, rock_large: { w: 2, h: 2, solid: 1 }, stone_house: { w: 5, h: 4, solid: 3 },
 };
 const WALK_THROUGH = new Set(['mushrooms', 'roses', 'tulips', 'dandelions', 'rock_small']);
-const NOT_PLACEABLE = new Set(['hoe', 'can', 'bag', 'shovel', 'shoes', 'sneakers', 'dig_spot', 'beanie', 'longsleeve', 'jeans', 'white_sneakers', 'note_red', 'note_yellow', 'note_blue', 'bird0', 'bird1', 'bird_fly0', 'bird_fly1', ...Object.values(CROPS).flatMap(c => [...c.stages, c.item, c.packet])]);
+const NOT_PLACEABLE = new Set(['hoe', 'can', 'bag', 'shovel', 'shoes', 'sneakers', 'dig_spot', 'berry_bush_bare', 'berries', 'pinecone', 'stone', 'beanie', 'longsleeve', 'jeans', 'white_sneakers', 'note_red', 'note_yellow', 'note_blue', 'bird0', 'bird1', 'bird_fly0', 'bird_fly1', ...Object.values(CROPS).flatMap(c => [...c.stages, c.item, c.packet])]);
 export const isGround = n => /^(grass|path|soil|cobbleb?|brickb?|shallow|deep|wildcool|wildwarm)\d+$/.test(n);
 export const isPaved = n => /^(path|cobbleb?|brickb?)\d+$/.test(n);
 // Rows where a road reaches the map's left or right edge: walking off there takes you through that side's exit.

diff --git a/tools/make_art.py b/tools/make_art.py
@@ -1192,6 +1192,40 @@ def white_sneakers():  # plain white sneaker, grey sole line
     for k in range(3): d.line([(12 + k * 3, 16 + k), (14 + k * 3, 18 + k)], C('#c8c4bc'))
     return outline(im)
 
+# Forage: the berry bush (with berries, and picked bare), and the things you pick up.
+BERRY_LEAF = ('#2f8a4a', '#4fae62', '#1e6236')  # a bluer, deeper green than the other shrubs
+def berry_bush(ripe=True):
+    im = new(); d = ImageDraw.Draw(im); d.ellipse([5, 26, 27, 31], (0, 0, 0, 60))
+    for box in ([3, 12, 17, 28], [15, 12, 29, 28], [8, 4, 24, 22]): shape(im, lambda d, box=box: d.ellipse(box), *BERRY_LEAF)
+    d = ImageDraw.Draw(im)
+    for x, y in ((9, 10), (19, 8), (13, 16), (23, 17), (7, 20), (17, 22)): d.line([(x, y), (x + 2, y - 1)], C('#1e6236'))  # leaf veins
+    if ripe:
+        for x, y in ((10, 13), (15, 8), (20, 12), (24, 20), (7, 21), (14, 19), (19, 24), (11, 25)):
+            shape(im, lambda d, x=x, y=y: d.ellipse([x - 2, y - 2, x + 1, y + 1]), '#f0283a', '#ff7a7a', '#a0101e', 1)
+            d = ImageDraw.Draw(im); d.point((x - 1, y - 1), C('#ffffff'))
+    return outline(im)
+def berries_item():  # a little handful of bright red berries with a leaf
+    im = new()
+    leaf(im, 15, 5, 10, 6, BERRY_LEAF)
+    for x, y in ((11, 15), (18, 14), (14, 21), (21, 21), (8, 22)):
+        shape(im, lambda d, x=x, y=y: d.ellipse([x - 4, y - 4, x + 3, y + 3]), '#f0283a', '#ff7a7a', '#a0101e', 1)
+        ImageDraw.Draw(im).point((x - 2, y - 2), C('#ffffff'))
+    return outline(im)
+def pinecone():  # brown cone of overlapping scales, point down
+    im = new()
+    shape(im, lambda d: d.polygon([(16, 28), (8, 16), (9, 9), (16, 5), (23, 9), (24, 16)]), '#8a5a2e', '#b07a44', '#5a3a1c')
+    d = ImageDraw.Draw(im)
+    for y in range(9, 26, 4):
+        w = max(1, 7 - abs(y - 13) // 2)
+        for x in range(16 - w, 16 + w + 1, 3): d.line([(x - 1, y), (x + 1, y + 2)], C('#5a3a1c')); d.point((x, y + 1), C('#c8925a'))
+    d.line([(16, 2), (16, 5)], C('#5a3a1c'))
+    return outline(im)
+def stone():  # a grey stone for gathering (smaller and rounder than the map's rocks)
+    im = new()
+    shape(im, lambda d: d.polygon([(7, 24), (9, 15), (15, 11), (22, 12), (26, 18), (25, 25), (16, 27)]), '#9a9aa0', '#c4c4ca', '#6a6a72')
+    d = ImageDraw.Draw(im); d.line([(13, 17), (17, 21)], C('#6a6a72')); d.point((20, 16), C('#e0e0e6'))
+    return outline(im)
+
 # ---------- assemble ----------
 cells, names = [], {}
 def add(name, im):
@@ -1240,6 +1274,7 @@ for st in range(4): add(f'wheat{st}', crop('wheat', st))
 add('wheat_item', wheat_item()); add('wheat_packet', packet(wheat_item()))
 for name, col in (('note_red', '#e0322c'), ('note_yellow', '#f6c62c'), ('note_blue', '#2a6ae0')): add(name, music_note(col))
 add('bird0', macaw(0)); add('bird1', macaw(1)); add('bird_fly0', macaw(0, True)); add('bird_fly1', macaw(1, True))
+add('berry_bush', berry_bush()); add('berry_bush_bare', berry_bush(False)); add('berries', berries_item()); add('pinecone', pinecone()); add('stone', stone())
 add('beanie', beanie()); add('longsleeve', longsleeve()); add('jeans', jeans()); add('white_sneakers', white_sneakers())
 COLS = 16
 sheet = new(COLS * S, math.ceil(len(cells) / COLS) * S)
